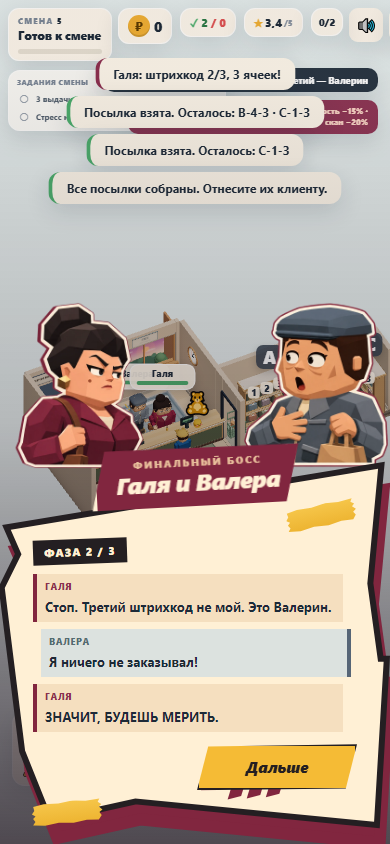
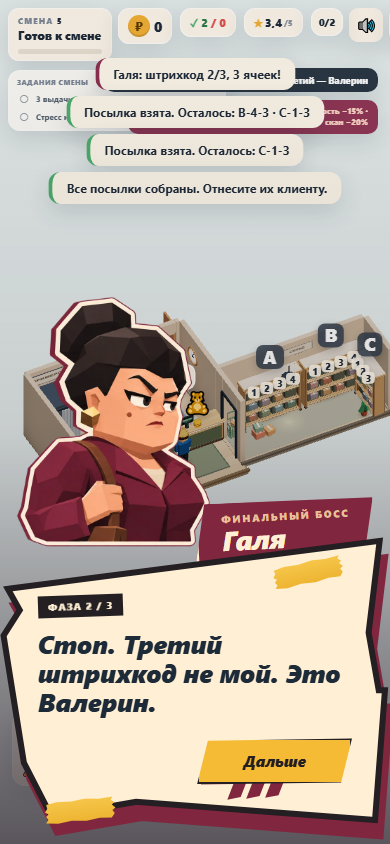
docs: show sequential dialogue and real in-game Valera bag

diff --git a/docs/FINAL_BOSS_VISUAL_PASS.md b/docs/FINAL_BOSS_VISUAL_PASS.md
@@ -1,16 +1,18 @@
-# Финальный босс: парная сценка и Валера
+# Финальный босс: реплики по тапу и Валера
 
 Задание владельца: оформить диалоги финального босса и улучшить модель. Ветка `sol/final-boss-visual-pass`, отдельный worktree от main `c221f93` после PR #30. Отдельный issue не назначен. Результат передаётся на ревью OpenCode Lead; самостоятельного merge нет.
 
-![Фаза 1: Галя и Валера](screenshots/final-boss/phase-1-desktop.png)
+![Галя говорит первой](screenshots/final-boss/phase-1-desktop.png)
 
 [Фаза 2](screenshots/final-boss/phase-2-desktop.png) · [Фаза 3](screenshots/final-boss/phase-3-desktop.png) · [390×844](screenshots/final-boss/phase-3-mobile.png) · [320×568](screenshots/final-boss/phase-1-small.png) · [568×320](screenshots/final-boss/phase-1-landscape.png)
 
+[Ответ Валеры](screenshots/final-boss/phase-1-valera-desktop.png) · [Валера на телефоне](screenshots/final-boss/phase-1-valera-mobile.png) · [Рассказчик и исходная кнопка возврата](screenshots/final-boss/phase-3-narrator.png)
+
 ## Сценка
 
-Вместо одного портрета Гали с обычным списком — парная композиция. Галя слева, Валера справа; между ними прежние реплики в исходном порядке. На широком экране виден ПВЗ, на телефоне портреты располагаются над текстом. Сохраняются общая координатная SVG-бумага, чёрный контур, бордовая подложка, зубчатый скотч и три крупных штриха. Новый SVG path не создан: финал использует существующий compact-силуэт Гали. Кнопка продолжения получила скосы и реакции hover/focus, её действие не изменилось.
+По уточнению владельца сценка показывает **одного говорящего и одну исходную фразу**. Тап по бумаге или кнопке «Дальше» переключает строку, имя, портрет и эмоцию. Галя и Валера чередуются в исходном порядке; строки рассказчика тоже сохраняются и показываются отдельно без портрета. Игра остаётся видна за окном. На широком экране портрет слева от бумаги, на телефоне — над ней. Общие SVG-силуэт, контур, подложка, скотч и штрихи сохранены.
 
-Тёплые бордовые строки Гали и серо-синие строки Валеры различаются цветом/стороной акцента; имена остаются в тексте. Рассказчик отделён спокойным курсивом. Все строки существуют одновременно, без автолистания, новых пауз, дополнительных кликов или скрытого изменения реплик. Длинный transcript прокручивается, кнопка продолжения остаётся снаружи прокрутки.
+Имя Гали расположено на бордовой плашке, Валеры — на серо-синей, рассказчика — на тёмной. Отдельные строки стали крупнее, общий список и прокрутка убраны. Нет автоматического таймера перелистывания. Исходная кнопка фазы («Дальше» / «Забрать возврат») завершает диалог **только после последней строки**, включая рассказчика. Промежуточный тап не вызывает Game и не снимает модальную паузу.
 
 | Существующая сценка | Галя | Валера | Прежняя кнопка |
 |---|---|---|---|
@@ -18,9 +20,15 @@
 | ФАЗА 2 / 3 | Строгая | Удивление | Дальше |
 | ФАЗА 3 / 3 | Злится | Возмущение | Забрать возврат |
 
-`BossDialogueScene.openFamily()` задаёт только оформление по номеру фазы. Профиль Гали и существующие DOM-id/API BossView сохранены. Два декоративных узла партнёра создаются один раз при создании view; после закрытия/переключения босса они скрыты. `showFinalBossDialogue()` по-прежнему строит строки из переданных Game данных и вызывает прежнюю кнопку. Фокус открывается на продолжении; Tab/Shift+Tab остаются внутри модального окна, transcript доступен с клавиатуры (Tab → End), фокус восстанавливается при закрытии. Reduced motion отключает входные анимации, без blur и вспышек на весь экран.
+`BossView` хранит индекс внутри переданного массива, рисует один `createDialogueLine()` и по завершении один раз вызывает прежний `onFinalDialogueDone`. Состояние сбрасывается при закрытии и повторном открытии. Клик кнопки не дублируется обработчиком бумаги; удержание Enter/Space не пролистывает строки повторными keydown. Поздние клики скрытого/закрытого окна игнорируются. `BossDialogueScene.openFamily()` меняет профиль/эмоцию текущего говорящего; лишний DOM второго портрета удалён. Сброс эмоции при смене профиля предотвращает неправильный кадр при одинаковых настроениях разных персонажей.
 
-Ни `game.ts`, ни FinalBossSystem, данные/реплики, баланс, заказы, таймеры, маршруты, камера и управление не менялись. Уже утверждённая 3D-Галя и её портретный атлас переиспользованы. Зина, Саня, Королева, обычные споры и обучение сохранены.
+DOM-id/API BossView сохранены. Кнопка поддерживает Enter/Space, Tab/Shift+Tab остаются внутри окна, aria-live сообщает текущую реплику, фокус восстанавливается при закрытии. Reduced motion отключает входные анимации; нет blur или вспышек на весь экран.
+
+### Почему на скриншоте владельца прежний Валера
+
+При проверке этого замечания PR #31 был **OPEN**, `mergedAt = null`; main `c221f93` ещё не содержал `createValeraPerson()`. Поэтому в игре из main показана прежняя модель с жёлтой кепкой и сумкой. В ветке PR новая фабрика уже подключена в настоящий Client; бумажный пакет — часть 3D-rig, а не только портрета/лаборатории. Регрессия проверяет `valera-body`, видимость `valera-bag` и его геометрию в реальной финальной встрече. [Игровой кадр](screenshots/final-boss/valera-bag-in-game.png) / [деталь без изменения камеры](screenshots/final-boss/valera-bag-detail.png). Самостоятельного merge не выполнялось.
+
+Ни `game.ts`, ни FinalBossSystem, данные/реплики, баланс, заказы, таймеры, маршруты, камера и управление персонажем не менялись. Уже утверждённая 3D-Галя и её портретный атлас переиспользованы. Зина, Саня, Королева, обычные споры и обучение сохранены.
 
 ## Модель Валеры
 
@@ -49,7 +57,7 @@
 
 `src/assets/valera-expressions.webp` — три выражения в одном **2172×724 RGBA** атласе, **225 162 байта**, true alpha. Новый ресурс добавляет около **6 290 112 байт (~6 MiB)** decoded CSS RGBA. Он предзагружается один раз; эмоции переключают background-position, не создавая новые картинки. Галя использует свой прежний атлас. CSS-память не входит в renderer.info.memory и приведена отдельно; новых WebGL-текстур нет.
 
-Портрет создан встроенным **image_gen** по скриншоту новой игровой модели (идентичность) и атласу Гали (графический стиль/раскладка). Использованы крупные low-poly грани, кремово-бордовый контур; генерация сохранила кепку, куртку и пакет во всех кадрах. В интерфейсе атлас зеркально отображён, чтобы Валера смотрел на Галю. Pillow применялся только для PNG → WebP, без перерисовки. [Полный финальный промпт](FINAL_BOSS_PORTRAIT_PROMPT.txt).
+Портрет создан встроенным **image_gen** по скриншоту новой игровой модели (идентичность) и атласу Гали (графический стиль/раскладка). Использованы крупные low-poly грани, кремово-бордовый контур; генерация сохранила кепку, куртку и пакет во всех кадрах. В последовательной сцене исходный атлас смотрит вправо, к бумаге; зеркальное отображение больше не нужно. Pillow применялся только для PNG → WebP, без перерисовки. [Полный финальный промпт](FINAL_BOSS_PORTRAIT_PROMPT.txt).
 
 ## Производительность
 
@@ -65,12 +73,12 @@
 
 | Обычный perf после изменений | Calls | Triangles | Textures / programs | avg / p95 / max RAF, мс |
 |---|---:|---:|---:|---:|
-| 2 клиента | 122 | 60 615 | 16 / 9 | 107,09 / 116,70 / 133,40 |
-| 4 клиента + всё оформление | 173 | 83 430 | 19 / 9 | 120,24 / 133,40 / 133,40 |
+| 2 клиента | 122 | 60 615 | 16 / 9 | 107,80 / 116,80 / 116,80 |
+| 4 клиента + всё оформление | 173 | 83 430 | 19 / 9 | 121,43 / 133,40 / 150,00 |
 
 [Raw стандартных сцен](perf/final-boss/fresh-scenes.json). Счётчики совпадают с предыдущим проходом. Бюджеты ≤150 calls в типичной сцене / ≤180 на пике и ≤150k triangles соблюдены. Shadow maps выключены, refresh = 0. Новых shadow maps, SSAO, bloom, GLTF, 3D-текстур и постобработки нет.
 
-Production preview 1600×960: одинаковая замороженная сцена с двумя портретами / без окна, 1 с прогрева + 5 с RAF. Оба состояния — **135 calls, 72 510 triangles, 100 geometries, 17 textures, 9 programs**. Без окна RAF **127,49 / 133,40 / 133,50 мс**, с окном **128,33 / 133,40 / 133,40 мс**. Входная анимация исключена. [Raw overlay](perf/final-boss/overlay.json).
+Production preview 1600×960 на `2bae039`: одинаковая замороженная сцена с одним текущим портретом / без окна, 1 с прогрева + 5 с RAF. Оба состояния — **135 calls, 72 510 triangles, 100 geometries, 17 textures, 9 programs**. Без окна RAF **129,05 / 150,00 / 150,10 мс**, с окном **130,34 / 149,90 / 150,00 мс**. Входная анимация исключена. [Raw overlay](perf/final-boss/overlay.json). Счётчики рендера модели при переходе на отдельные строки не изменились.
 
 ## Проверки и ограничения
 
@@ -83,15 +91,16 @@ node tests/perf/final-boss.mjs after
 node tests/perf/final-dialogue.mjs
 ```
 
-Build прошёл, **43/43 unit**, **45/45 e2e**, perf budget прошёл. Локальный e2e запускался через временную копию штатного конфига (`--config=test-results/final-playwright.config.ts`, Vite 4189), чтобы не занимать сервер Lead; конфиг проекта не менялся. `final-boss.mjs` сам поднимает/закрывает Vite 4190, записывает JSON и кадр в `test-results/perf/final-boss/<label>/`. `final-dialogue.mjs` использует production preview 4192, снимает три фазы на четырёх viewport через настоящую выдачу/путь, пишет скриншоты в `docs/screenshots/final-boss`, метрики — в `test-results/perf/final-dialogue/`.
+Build прошёл, **43/43 unit**, **46/46 e2e**, perf budget прошёл. Локальный e2e запускался через временную копию штатного конфига (`--config=test-results/final-playwright.config.ts`, Vite 4189), чтобы не занимать сервер Lead; конфиг проекта не менялся. `final-boss.mjs` сам поднимает/закрывает Vite 4190, записывает JSON и кадр в `test-results/perf/final-boss/<label>/`. `final-dialogue.mjs` использует production preview 4192, снимает три фазы на четырёх viewport, отдельные ответы Валеры/рассказчика и пакет реального персонажа через настоящую выдачу/путь; пишет скриншоты в `docs/screenshots/final-boss`, метрики — в `test-results/perf/final-dialogue/`.
 
-Четыре новых e2e покрывают:
+Пять новых e2e покрывают:
 
 - PersonRig, конечность координат, ходьбу, моргание, три выражения, вертикальность пакета, 4 цвета посылок и бюджет геометрии;
 - 20 create/render/double-dispose циклов: все instance-ресурсы освобождены ровно один раз, общие кэши живы, geometries/textures/programs после прогрева одинаковы;
-- настоящий финал: исходные строки и кнопки, модальная пауза, дебафф, 2/3/4 посылки, пеший путь Валеры, три возврата и results;
-- пять viewport до 320×568/568×320, три эмоции, bounds текста/кнопки, Tab/End, reduced motion, отсутствие роста DOM и скрытие Валеры при обычном боссе.
+- настоящий финал: каждую исходную строку/говорящего по одному тапу, пакет настоящего Валеры, завершение callback только после последней строки, модальную паузу, дебафф, 2/3/4 посылки, путь в примерочную, три возврата и results;
+- пять viewport до 320×568/568×320 для каждой строки всех фаз, эмоции/профили, bounds текста/кнопки, keyboard focus, reduced motion и стабильный DOM;
+- удержание Enter, поздние клики после закрытия, сброс на первую строку при повторном открытии, однократный callback.
 
 Штатный long-session e2e на 20 start/restart циклов также проходит. `console.error`/`pageerror` отсутствуют в тестах, captures и замерах. Прежние предупреждения bundle >500 kB и deprecated THREE.Clock сохранены.
 
-Вне задачи: переписывание Гали/остальных персонажей, новые реплики/исходы, поочерёдная подача строк, озвучка, cloth simulation, отдельные пальцы и архитектурный рефакторинг. На физических iOS/Android не проверялось. Длинные диалоги на компактном экране требуют прокрутки. Откат: вернуть прежнюю фабрику Валеры и вызов одного портрета в BossView, убрать final-only CSS/новый атлас; игровые данные и сохранения не менялись.
+Вне задачи: переписывание Гали/остальных персонажей, новые реплики/исходы, озвучка, cloth simulation, отдельные пальцы и архитектурный рефакторинг. На физических iOS/Android не проверялось. По просьбе владельца для чтения сцены теперь нужен тап на каждую исходную строку. Откат: вернуть прежнюю фабрику Валеры и показ исходного списка в BossView, убрать final-only CSS/новый атлас; игровые данные и сохранения не менялись.

diff --git a/docs/ROADMAP_ARCHITECTURE_GRAPHICS.md b/docs/ROADMAP_ARCHITECTURE_GRAPHICS.md
@@ -614,12 +614,12 @@ src/
 - Три портрета обновлены под тот же образ в одном прозрачном WebP меньшего размера. Геометрия диалогового окна, тексты, таймеры, механика, обычные клиенты и другие боссы сохранены. Исправления issue #17/#28 из main сохранены.
 - Build, 43 unit, 41 e2e и perf проходят; 20 dispose-циклов выходят на плато. [Сравнения, промпты, сырые метрики и ограничения](QUEEN_CHARACTER_PASS.md). Задание владельца без отдельного issue; результат ожидает ревью Lead, самостоятельного merge нет.
 
-### 6.42. Финальный босс: парный диалог и модель Валеры
+### 6.42. Финальный босс: диалог по репликам и модель Валеры
 
-- Галя и Валера обрамляют прежние диалоги трёх фаз. Общая координатная SVG-бумага, бордово-кремовая палитра, скотч/штрихи, отдельные эмоции Валеры, доступная прокрутка и скошенная кнопка. Тексты, порядок реплик, кнопки и сценарий финала не менялись.
+- По уточнению владельца — один говорящий, его портрет и одна исходная реплика на экране. Тап бумаги/кнопки или Enter переключает строку; рассказчик показывается без портрета, callback фазы вызывается только после последней строки. Общие SVG-бумага, палитра, скотч/штрихи и скошенная кнопка сохранены. Тексты, порядок и исходы не менялись.
 - Валера получил отдельный процедурный rig: мягкий сутулый силуэт, низкая кепка, выразительное лицо, куртка с карманами/манжетами, пакет, локти/кисти и новые позы. Максимум с четырьмя коробками — 2662 треугольника. Утверждённая Галя переиспользована.
 - PersonRig/instance-only dispose и общие кэши сохранены. Финальная встреча — 135 calls / 72 510 triangles вместо 134 / 79 220; обычные сцены — прежние 122/173 calls, без shadow maps/постобработки.
-- Build, 43 unit, 45 e2e и perf проходят. [Кадры трёх фаз, модели, промпт, сырые метрики и ограничения](FINAL_BOSS_VISUAL_PASS.md). Задание владельца без отдельного issue; ожидается ревью Lead без самостоятельного merge.
+- Build, 43 unit, 46 e2e и perf проходят. Проверены каждый тап/говорящий, однократное завершение фазы, удержание Enter, повторное открытие и настоящий пакет Валеры. [Кадры трёх фаз, модели, промпт, сырые метрики и ограничения](FINAL_BOSS_VISUAL_PASS.md). Задание владельца без отдельного issue; ожидается ревью Lead без самостоятельного merge.
 
 ### Исторические метрики до визуальных проходов
 
